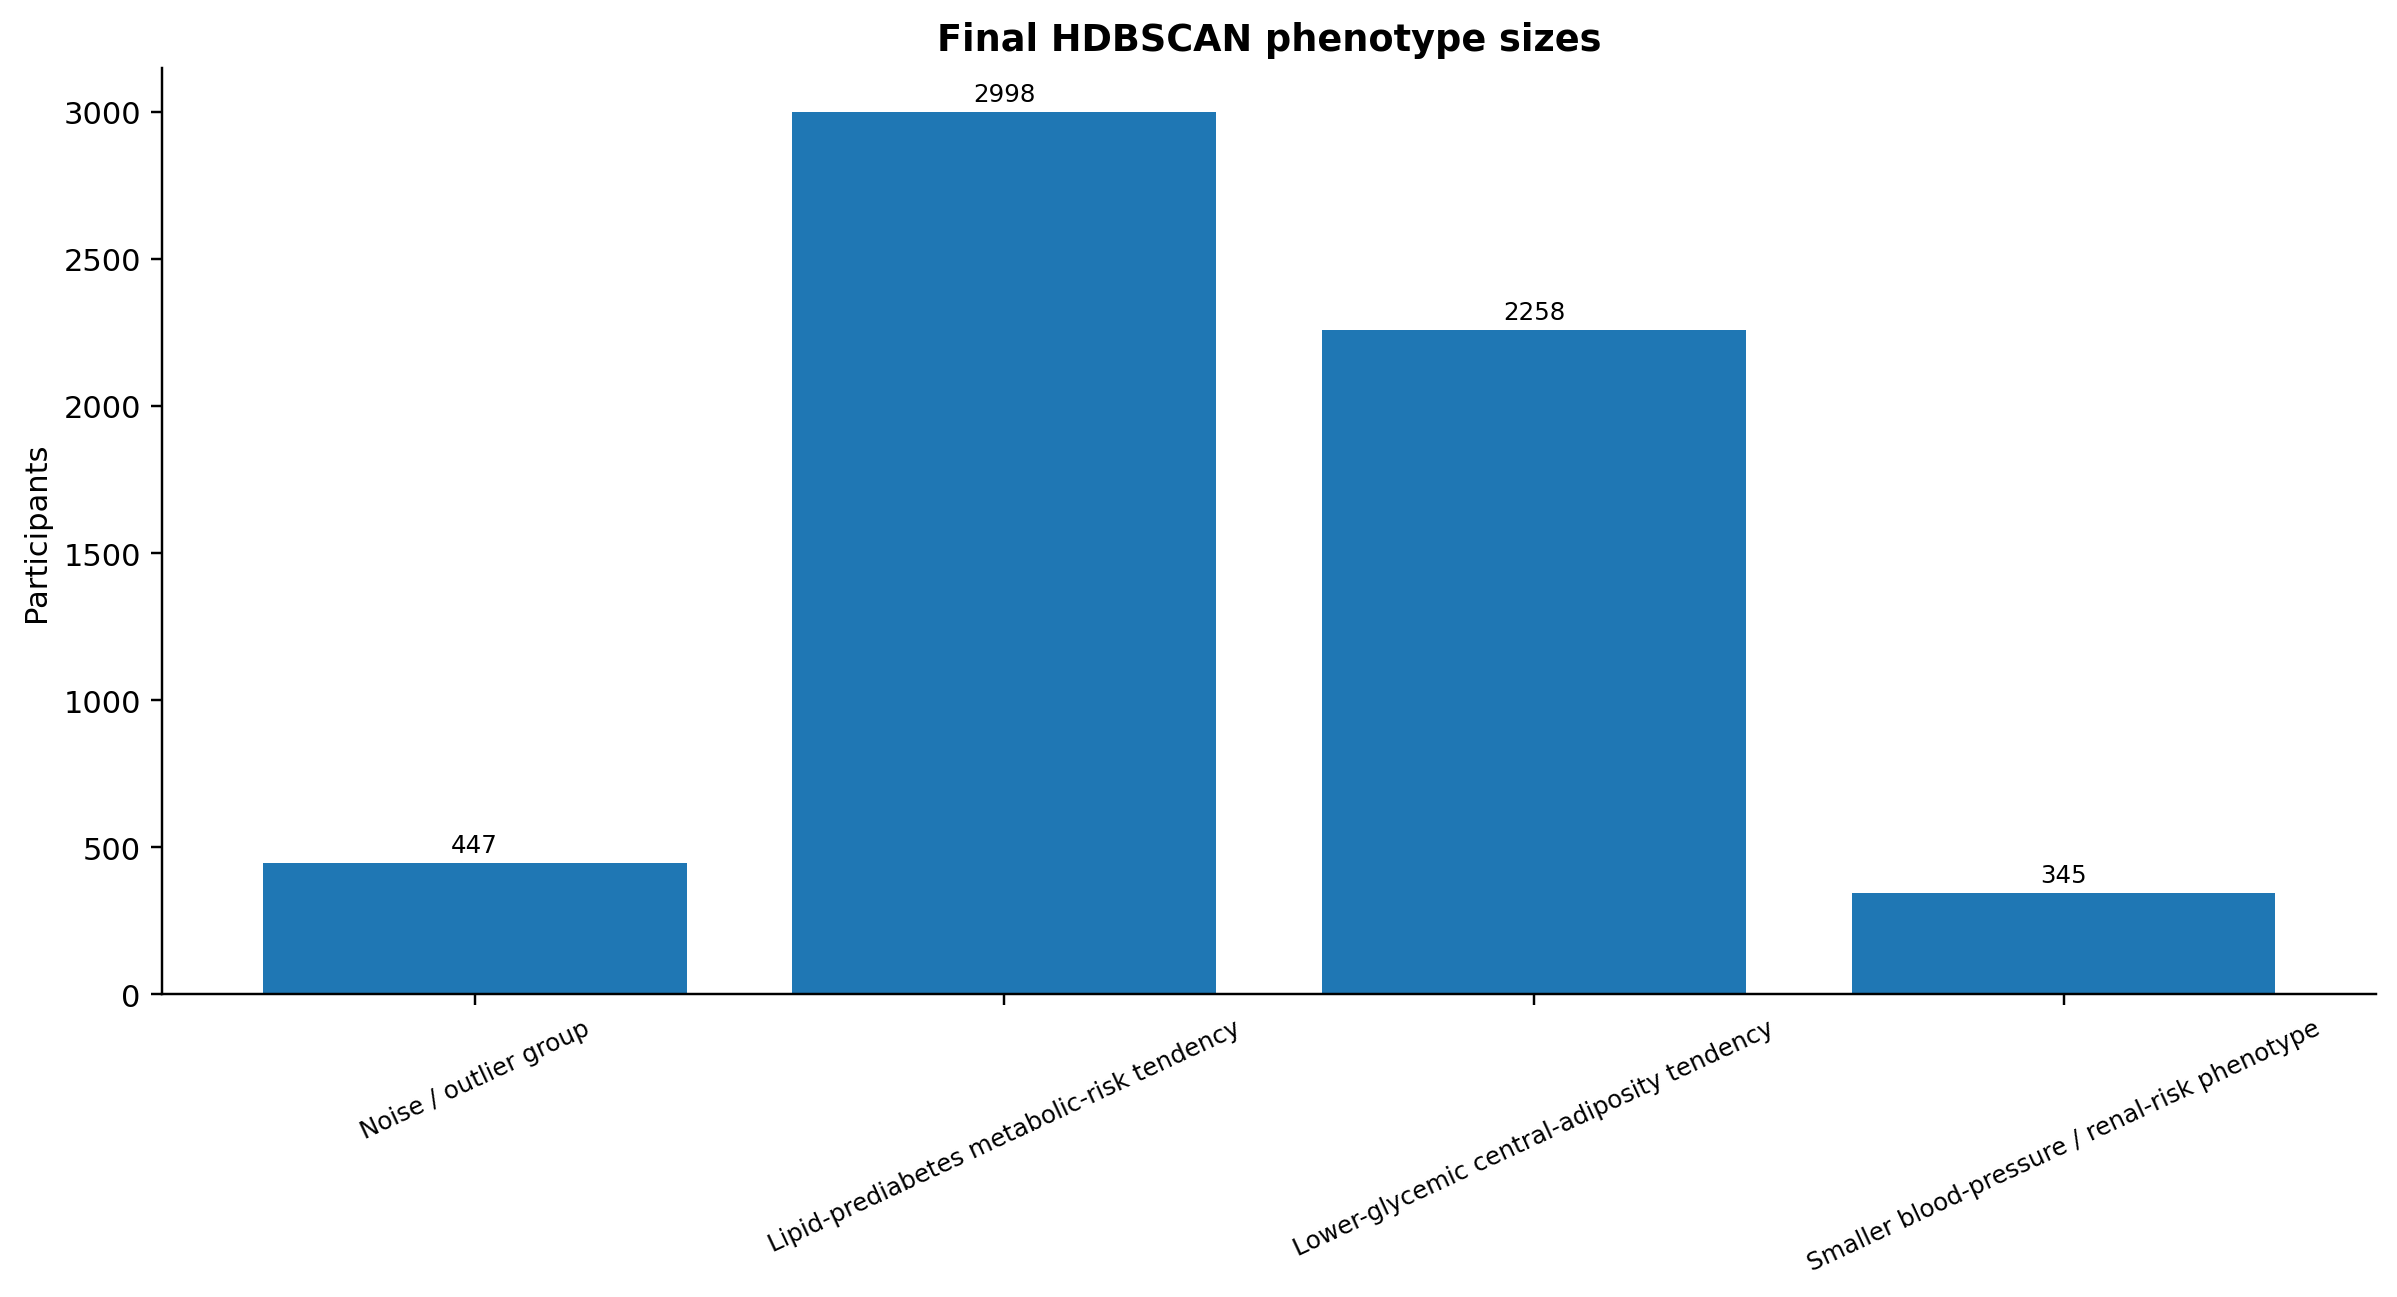
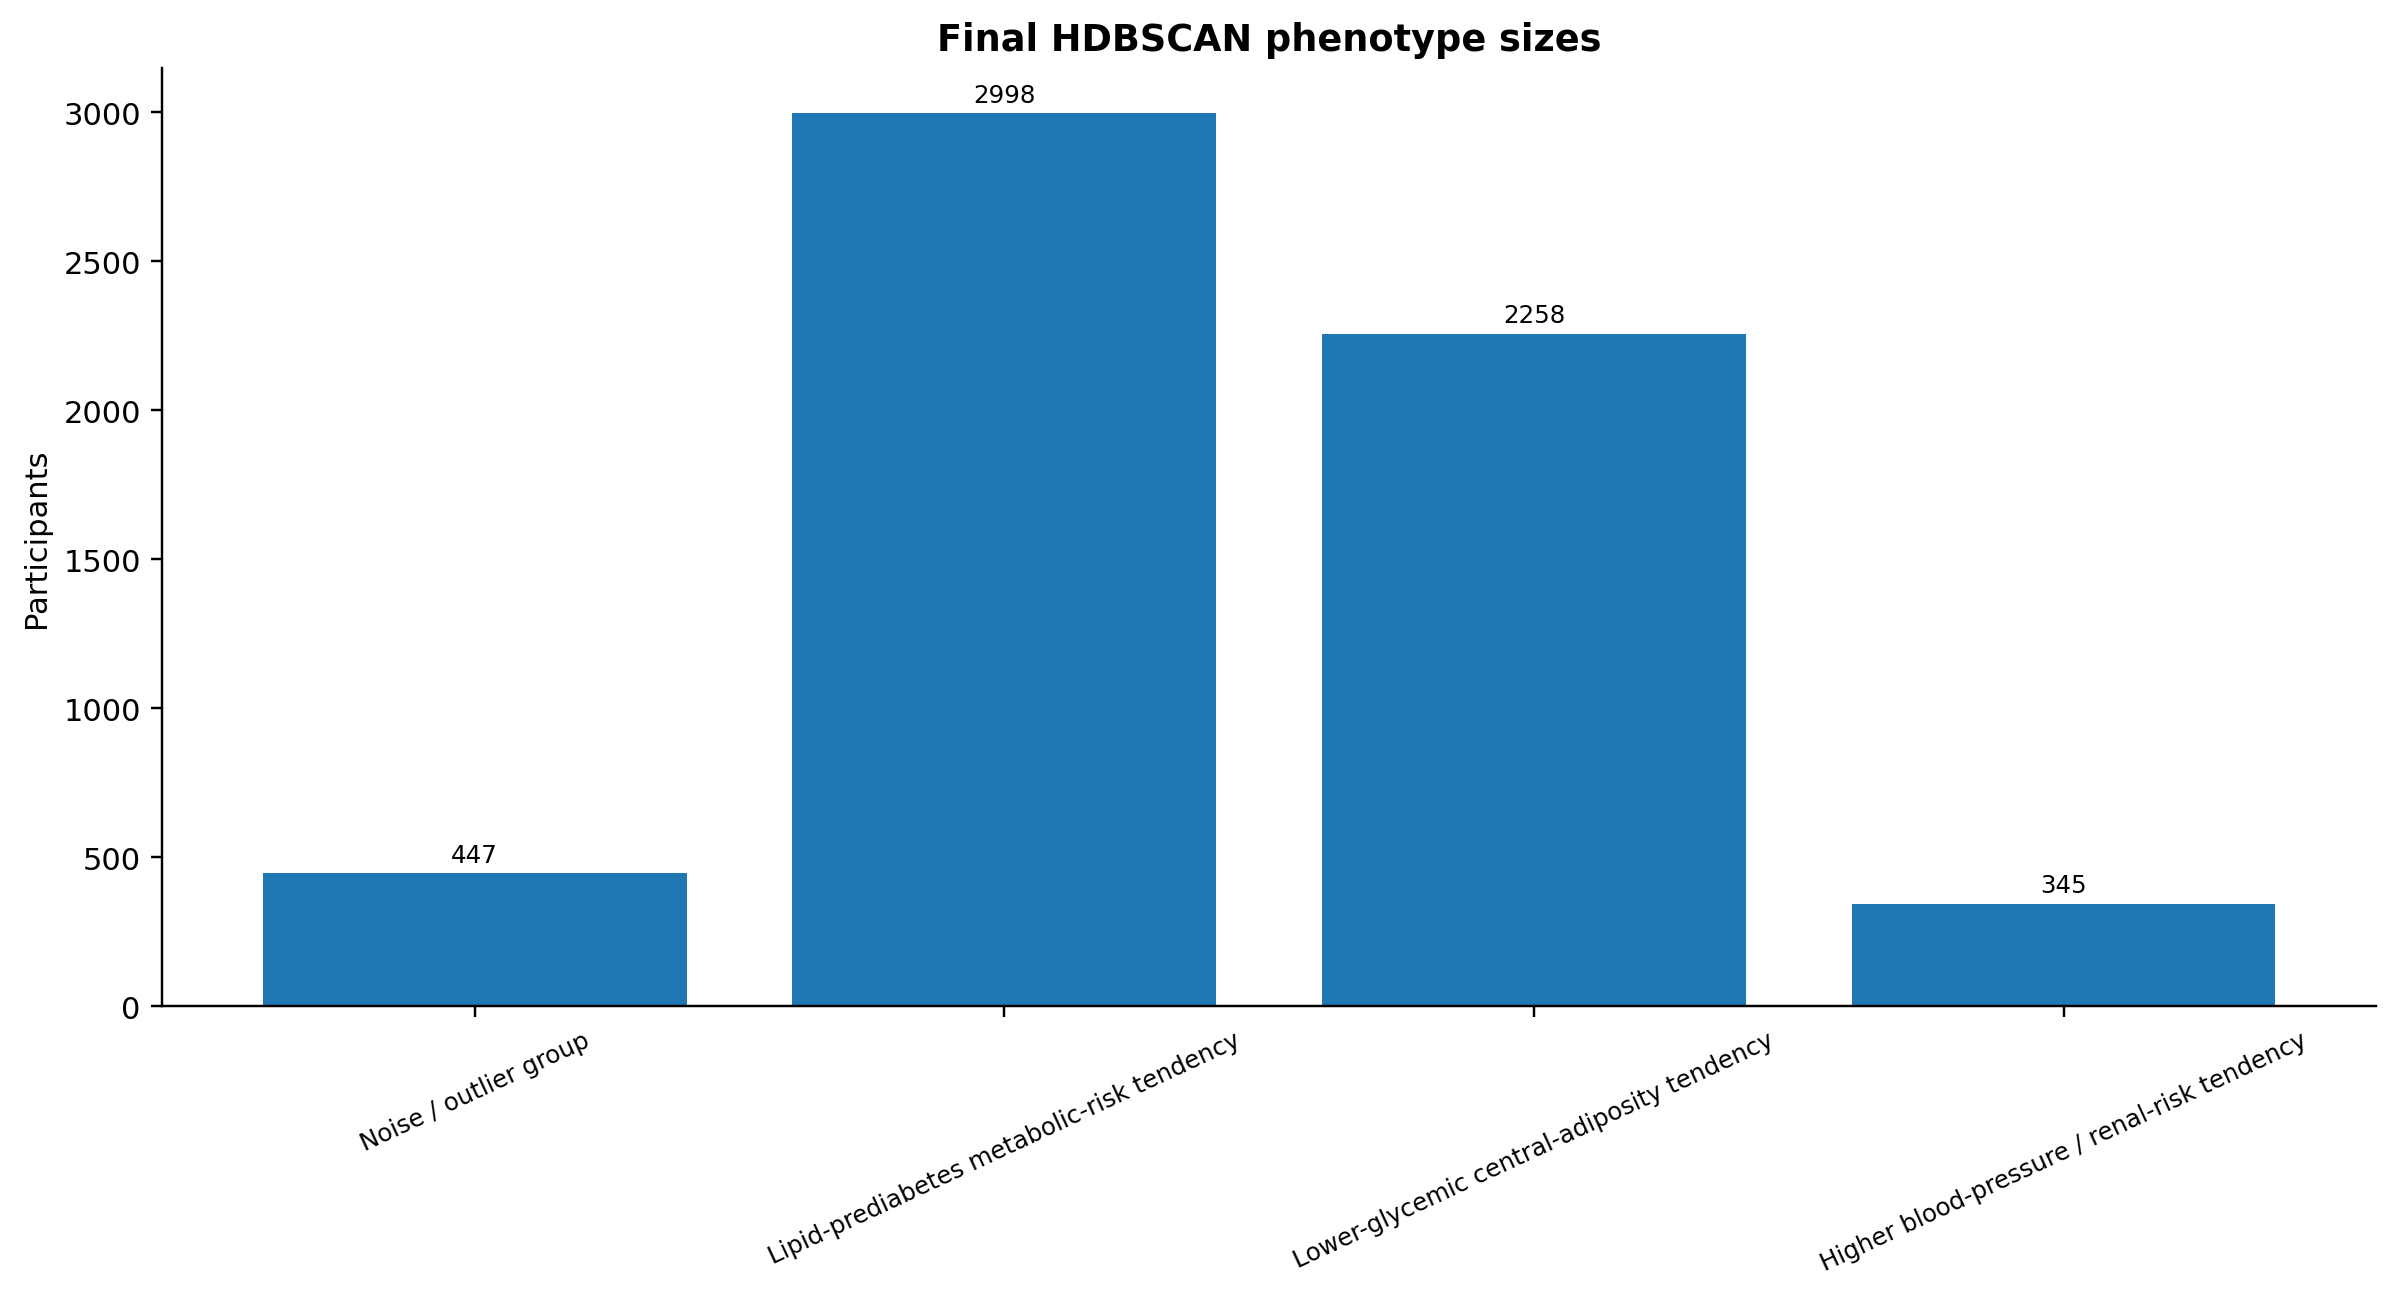
Finalize neutral research-software terminology

diff --git a/src/nhanes_hdbscan/visualization.py b/src/nhanes_hdbscan/visualization.py
@@ -9,7 +9,7 @@ import matplotlib.pyplot as plt
 import numpy as np
 import pandas as pd
 
-from nhanes_hdbscan.config import PortfolioConfig
+from nhanes_hdbscan.config import ResearchConfig
 from nhanes_hdbscan.results import (
     ablation_summary,
     biomarker_z_matrix,
@@ -52,7 +52,7 @@ def annotate_bars(ax: plt.Axes, fmt: str) -> None:
             )
 
 
-def plot_pipeline(figures_dir: Path, cfg: PortfolioConfig) -> Path:
+def plot_pipeline(figures_dir: Path, cfg: ResearchConfig) -> Path:
     steps = [
         "Public NHANES\nXPT files",
         "Adult cohort\nobjective biomarkers",
@@ -87,7 +87,7 @@ def plot_pipeline(figures_dir: Path, cfg: PortfolioConfig) -> Path:
     return save(fig, figures_dir / "pipeline_diagram.png", cfg.dpi)
 
 
-def plot_cluster_sizes(data: dict[str, Any], figures_dir: Path, cfg: PortfolioConfig) -> Path:
+def plot_cluster_sizes(data: dict[str, Any], figures_dir: Path, cfg: ResearchConfig) -> Path:
     df = phenotype_profiles(data)
     fig, ax = plt.subplots(figsize=(11, 6))
     ax.bar(df["display_name"], df["n"])
@@ -98,7 +98,7 @@ def plot_cluster_sizes(data: dict[str, Any], figures_dir: Path, cfg: PortfolioCo
     return save(fig, figures_dir / "cluster_size_distribution.png", cfg.dpi)
 
 
-def plot_stability(data: dict[str, Any], figures_dir: Path, cfg: PortfolioConfig) -> Path:
+def plot_stability(data: dict[str, Any], figures_dir: Path, cfg: ResearchConfig) -> Path:
     s = data["stability"]
     vals = {
         "Mean ARI": s["mean_pairwise_ARI"],
@@ -115,7 +115,7 @@ def plot_stability(data: dict[str, Any], figures_dir: Path, cfg: PortfolioConfig
     return save(fig, figures_dir / "multi_seed_stability_metrics.png", cfg.dpi)
 
 
-def plot_seed_quality(data: dict[str, Any], figures_dir: Path, cfg: PortfolioConfig) -> Path:
+def plot_seed_quality(data: dict[str, Any], figures_dir: Path, cfg: ResearchConfig) -> Path:
     df = final_seed_runs(data)
     fig, ax = plt.subplots(figsize=(10, 6))
     ax.plot(df["seed"].astype(str), df["noise_rate"], marker="o", label="Noise rate")
@@ -127,7 +127,7 @@ def plot_seed_quality(data: dict[str, Any], figures_dir: Path, cfg: PortfolioCon
     return save(fig, figures_dir / "seed_level_quality_metrics.png", cfg.dpi)
 
 
-def plot_biomarker_heatmap(data: dict[str, Any], figures_dir: Path, cfg: PortfolioConfig) -> Path:
+def plot_biomarker_heatmap(data: dict[str, Any], figures_dir: Path, cfg: ResearchConfig) -> Path:
     mat = biomarker_z_matrix(data)
     fig, ax = plt.subplots(figsize=(13, 7))
     im = ax.imshow(mat.to_numpy(dtype=float), aspect="auto", cmap="coolwarm", vmin=-2, vmax=2)
@@ -147,7 +147,7 @@ def plot_biomarker_heatmap(data: dict[str, Any], figures_dir: Path, cfg: Portfol
     return save(fig, figures_dir / "phenotype_biomarker_heatmap.png", cfg.dpi)
 
 
-def plot_disease_lift(data: dict[str, Any], figures_dir: Path, cfg: PortfolioConfig) -> Path:
+def plot_disease_lift(data: dict[str, Any], figures_dir: Path, cfg: ResearchConfig) -> Path:
     df = disease_enrichment(data)
     pivot = df.pivot_table(
         index="outcome", columns="display_name", values="lift_vs_overall", aggfunc="mean"
@@ -170,7 +170,7 @@ def plot_disease_lift(data: dict[str, Any], figures_dir: Path, cfg: PortfolioCon
     return save(fig, figures_dir / "disease_enrichment_lift_heatmap.png", cfg.dpi)
 
 
-def plot_ablation(data: dict[str, Any], figures_dir: Path, cfg: PortfolioConfig) -> Path:
+def plot_ablation(data: dict[str, Any], figures_dir: Path, cfg: ResearchConfig) -> Path:
     df = ablation_summary(data)
     fig, ax = plt.subplots(figsize=(11, 7))
     col = "ARI_vs_full_reference_mean"
@@ -185,7 +185,7 @@ def plot_ablation(data: dict[str, Any], figures_dir: Path, cfg: PortfolioConfig)
     return save(fig, figures_dir / "ablation_ari_vs_full_reference.png", cfg.dpi)
 
 
-def plot_replication(data: dict[str, Any], figures_dir: Path, cfg: PortfolioConfig) -> Path:
+def plot_replication(data: dict[str, Any], figures_dir: Path, cfg: ResearchConfig) -> Path:
     df = replication_matches(data)
     labels = [f"D{int(r.discovery_label)} → R{int(r.replication_label)}" for r in df.itertuples()]
     fig, ax = plt.subplots(figsize=(9, 6))
@@ -197,7 +197,7 @@ def plot_replication(data: dict[str, Any], figures_dir: Path, cfg: PortfolioConf
     return save(fig, figures_dir / "replication_profile_correlations.png", cfg.dpi)
 
 
-def make_all_figures(data: dict[str, Any], cfg: PortfolioConfig) -> list[Path]:
+def make_all_figures(data: dict[str, Any], cfg: ResearchConfig) -> list[Path]:
     cfg.figures_dir.mkdir(parents=True, exist_ok=True)
     return [
         plot_pipeline(cfg.figures_dir, cfg),

diff --git a/src/nhanes_hdbscan/config.py b/src/nhanes_hdbscan/config.py
@@ -12,7 +12,7 @@ PHENOTYPE_NAMES = {
     -1: "Noise / outlier group",
     0: "Lipid-prediabetes metabolic-risk tendency",
     1: "Lower-glycemic central-adiposity tendency",
-    2: "Smaller blood-pressure / renal-risk phenotype",
+    2: "Higher blood-pressure / renal-risk tendency",
 }
 
 BIOMARKER_COLUMNS = [
@@ -85,4 +85,4 @@ class ResearchConfig:
 
 
 # Backward-compatible alias for earlier release code and notebooks.
-PortfolioConfig = ResearchConfig
+ResearchConfig = ResearchConfig

diff --git a/docs/research_results_summary.md b/docs/research_results_summary.md
@@ -32,20 +32,20 @@ Disease labels, survey weights, and demographic/socioeconomic variables are not 
 | -1 | Noise / outlier group | 447 | 7.4% | HDBSCAN noise label |
 | 0 | Lipid-prediabetes metabolic-risk tendency | 2,998 | 49.6% | wbc z=-0.17; albumin z=-0.07; mean_sbp z=-0.06; mean_dbp z=-0.05 |
 | 1 | Lower-glycemic central-adiposity tendency | 2,258 | 37.3% | wbc z=0.20; albumin z=0.11; glucose z=-0.07; mean_dbp z=0.05 |
-| 2 | Smaller blood-pressure / renal-risk phenotype | 345 | 5.7% | mean_sbp z=0.18; wbc z=0.15; mean_dbp z=0.12; rdw z=0.12 |
+| 2 | Higher blood-pressure / renal-risk tendency | 345 | 5.7% | mean_sbp z=0.18; wbc z=0.15; mean_dbp z=0.12; rdw z=0.12 |
 
 ## Strongest post-hoc enrichment signals
 
 | Phenotype | Outcome | Weighted prevalence/mean | Overall | Lift |
 |---|---|---:|---:|---:|
-| Smaller blood-pressure / renal-risk phenotype | albuminuria | 0.160 | 0.101 | 1.58 |
+| Higher blood-pressure / renal-risk tendency | albuminuria | 0.160 | 0.101 | 1.58 |
 | Lipid-prediabetes metabolic-risk tendency | prediabetes_biomarker | 0.499 | 0.370 | 1.35 |
-| Smaller blood-pressure / renal-risk phenotype | diabetes_any | 0.179 | 0.149 | 1.20 |
-| Smaller blood-pressure / renal-risk phenotype | cvd_self_report | 0.114 | 0.096 | 1.19 |
+| Higher blood-pressure / renal-risk tendency | diabetes_any | 0.179 | 0.149 | 1.20 |
+| Higher blood-pressure / renal-risk tendency | cvd_self_report | 0.114 | 0.096 | 1.19 |
 | Noise / outlier group | albuminuria | 0.117 | 0.101 | 1.15 |
 | Lipid-prediabetes metabolic-risk tendency | metabolic_syndrome_count | 1.976 | 1.747 | 1.13 |
-| Smaller blood-pressure / renal-risk phenotype | hypertension_any | 0.573 | 0.506 | 1.13 |
-| Smaller blood-pressure / renal-risk phenotype | ckd_risk | 0.160 | 0.141 | 1.13 |
+| Higher blood-pressure / renal-risk tendency | hypertension_any | 0.573 | 0.506 | 1.13 |
+| Higher blood-pressure / renal-risk tendency | ckd_risk | 0.160 | 0.141 | 1.13 |
 | Lipid-prediabetes metabolic-risk tendency | diabetes_any | 0.164 | 0.149 | 1.10 |
 | Lower-glycemic central-adiposity tendency | central_obesity | 0.598 | 0.558 | 1.07 |
 | Lipid-prediabetes metabolic-risk tendency | dyslipidemia | 0.590 | 0.552 | 1.07 |

diff --git a/results/summary/technical_summary.md b/results/summary/technical_summary.md
@@ -32,20 +32,20 @@ Disease labels, survey weights, and demographic/socioeconomic variables are not 
 | -1 | Noise / outlier group | 447 | 7.4% | HDBSCAN noise label |
 | 0 | Lipid-prediabetes metabolic-risk tendency | 2,998 | 49.6% | wbc z=-0.17; albumin z=-0.07; mean_sbp z=-0.06; mean_dbp z=-0.05 |
 | 1 | Lower-glycemic central-adiposity tendency | 2,258 | 37.3% | wbc z=0.20; albumin z=0.11; glucose z=-0.07; mean_dbp z=0.05 |
-| 2 | Smaller blood-pressure / renal-risk phenotype | 345 | 5.7% | mean_sbp z=0.18; wbc z=0.15; mean_dbp z=0.12; rdw z=0.12 |
+| 2 | Higher blood-pressure / renal-risk tendency | 345 | 5.7% | mean_sbp z=0.18; wbc z=0.15; mean_dbp z=0.12; rdw z=0.12 |
 
 ## Strongest post-hoc enrichment signals
 
 | Phenotype | Outcome | Weighted prevalence/mean | Overall | Lift |
 |---|---|---:|---:|---:|
-| Smaller blood-pressure / renal-risk phenotype | albuminuria | 0.160 | 0.101 | 1.58 |
+| Higher blood-pressure / renal-risk tendency | albuminuria | 0.160 | 0.101 | 1.58 |
 | Lipid-prediabetes metabolic-risk tendency | prediabetes_biomarker | 0.499 | 0.370 | 1.35 |
-| Smaller blood-pressure / renal-risk phenotype | diabetes_any | 0.179 | 0.149 | 1.20 |
-| Smaller blood-pressure / renal-risk phenotype | cvd_self_report | 0.114 | 0.096 | 1.19 |
+| Higher blood-pressure / renal-risk tendency | diabetes_any | 0.179 | 0.149 | 1.20 |
+| Higher blood-pressure / renal-risk tendency | cvd_self_report | 0.114 | 0.096 | 1.19 |
 | Noise / outlier group | albuminuria | 0.117 | 0.101 | 1.15 |
 | Lipid-prediabetes metabolic-risk tendency | metabolic_syndrome_count | 1.976 | 1.747 | 1.13 |
-| Smaller blood-pressure / renal-risk phenotype | hypertension_any | 0.573 | 0.506 | 1.13 |
-| Smaller blood-pressure / renal-risk phenotype | ckd_risk | 0.160 | 0.141 | 1.13 |
+| Higher blood-pressure / renal-risk tendency | hypertension_any | 0.573 | 0.506 | 1.13 |
+| Higher blood-pressure / renal-risk tendency | ckd_risk | 0.160 | 0.141 | 1.13 |
 | Lipid-prediabetes metabolic-risk tendency | diabetes_any | 0.164 | 0.149 | 1.10 |
 | Lower-glycemic central-adiposity tendency | central_obesity | 0.598 | 0.558 | 1.07 |
 | Lipid-prediabetes metabolic-risk tendency | dyslipidemia | 0.590 | 0.552 | 1.07 |

diff --git a/manuscript/results_scaffold.md b/manuscript/results_scaffold.md
@@ -9,7 +9,7 @@ The final discovery analysis included 6,048 adults and identified 3 non-noise HD
 Phenotype -1 (Noise / outlier group) included 447 participants (7.4% of the analytic cohort). Top standardized drivers were: HDBSCAN noise label.
 Phenotype 0 (Lipid-prediabetes metabolic-risk tendency) included 2,998 participants (49.6% of the analytic cohort). Top standardized drivers were: wbc z=-0.17; albumin z=-0.07; mean_sbp z=-0.06; mean_dbp z=-0.05.
 Phenotype 1 (Lower-glycemic central-adiposity tendency) included 2,258 participants (37.3% of the analytic cohort). Top standardized drivers were: wbc z=0.20; albumin z=0.11; glucose z=-0.07; mean_dbp z=0.05.
-Phenotype 2 (Smaller blood-pressure / renal-risk phenotype) included 345 participants (5.7% of the analytic cohort). Top standardized drivers were: mean_sbp z=0.18; wbc z=0.15; mean_dbp z=0.12; rdw z=0.12.
+Phenotype 2 (Higher blood-pressure / renal-risk tendency) included 345 participants (5.7% of the analytic cohort). Top standardized drivers were: mean_sbp z=0.18; wbc z=0.15; mean_dbp z=0.12; rdw z=0.12.
 
 ## Ablation robustness
 